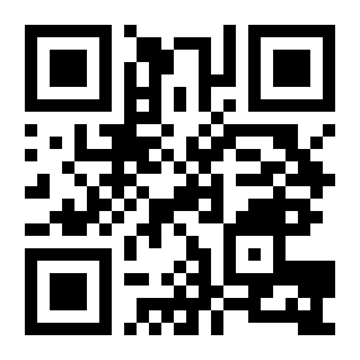
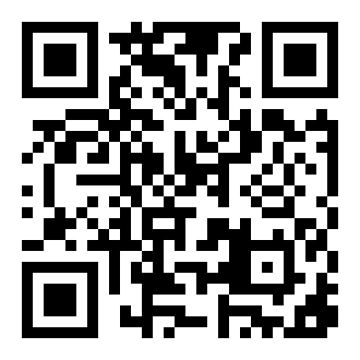
LINEの入口を「てらこ先生｜スマホ教室てらこ」（@381・lin.ee/WACibGu）に一本化：ホームページ・名刺ページ・お問い合わせ・予約アプリの友だち追加リンクと、QR画像 images/line-qr.png

diff --git a/index.html b/index.html
@@ -772,7 +772,7 @@
                         <li role="none"><a href="#about" role="menuitem">代表紹介</a></li>
                         <li role="none"><a href="#faq" role="menuitem">よくある質問</a></li>
                     </ul>
-                    <a href="https://lin.ee/tkYJ7Cw" class="nav-line-btn" target="_blank" rel="noopener" aria-label="LINEで相談する（外部リンク）">LINEで相談</a>
+                    <a href="https://lin.ee/WACibGu" class="nav-line-btn" target="_blank" rel="noopener" aria-label="LINEで相談する（外部リンク）">LINEで相談</a>
                 </div>
                 <button
                     class="mobile-menu-toggle"
@@ -816,7 +816,7 @@
                     </a>
                     <div class="hero2-actions">
                         <a href="#services" class="btn-forest btn-green">教室のご案内を見る</a>
-                        <a href="https://lin.ee/tkYJ7Cw" class="btn-line-solid btn-line" target="_blank" rel="noopener" aria-label="LINEで気軽に相談する（外部リンク）">LINEで気軽に相談</a>
+                        <a href="https://lin.ee/WACibGu" class="btn-line-solid btn-line" target="_blank" rel="noopener" aria-label="LINEで気軽に相談する（外部リンク）">LINEで気軽に相談</a>
                     </div>
                 </div>
             </div>
@@ -1117,7 +1117,7 @@
                         <span>電話 <a href="tel:090-6738-1469">090-6738-1469</a>｜メール <a href="mailto:fujisaki@teraco-labo.com">fujisaki@teraco-labo.com</a></span>
                     </div>
                     <div class="access-actions">
-                        <a href="https://lin.ee/tkYJ7Cw" class="btn-line-footer" target="_blank" rel="noopener" aria-label="LINEで相談する（外部リンク）">LINEで相談する</a>
+                        <a href="https://lin.ee/WACibGu" class="btn-line-footer" target="_blank" rel="noopener" aria-label="LINEで相談する（外部リンク）">LINEで相談する</a>
                         <a href="contact.html" class="btn-outline-footer">お問い合わせフォーム</a>
                     </div>
                 </div>
@@ -1146,7 +1146,7 @@
         <a href="tel:090-6738-1469" class="sticky-btn sticky-btn-phone" aria-label="電話で問い合わせ：090-6738-1469">
             電話する
         </a>
-        <a href="https://lin.ee/tkYJ7Cw" class="sticky-btn sticky-btn-line" target="_blank" rel="noopener" aria-label="LINEで相談する（外部リンク）">
+        <a href="https://lin.ee/WACibGu" class="sticky-btn sticky-btn-line" target="_blank" rel="noopener" aria-label="LINEで相談する（外部リンク）">
             LINEで相談
         </a>
     </div>
@@ -1241,7 +1241,7 @@
         <p>こんなことで困っていませんか。教室で、何度でも一緒に練習します。</p>
         <ul><li>文字が小さくて読みにくい・打つのが大変</li><li>LINE で写真を送りたい・友だちを追加したい</li><li>機種変更で、写真や電話帳を移したい</li><li>キャッシュレス決済を使ってみたい</li><li>迷惑メールや詐欺のメッセージが心配</li></ul>
         
-        <div class="tc-go"><a class="btn-forest" href="smartphone.html">スマホ・タブレット教室を見る</a><a class="btn-line-solid" href="https://lin.ee/tkYJ7Cw" target="_blank" rel="noopener">LINEで相談</a></div>
+        <div class="tc-go"><a class="btn-forest" href="smartphone.html">スマホ・タブレット教室を見る</a><a class="btn-line-solid" href="https://lin.ee/WACibGu" target="_blank" rel="noopener">LINEで相談</a></div>
     </div></dialog>
     <dialog id="sheet-pc" class="tc-sheet" aria-labelledby="sheet-pc-t"><div class="tc-sheet-in">
         <button type="button" class="tc-close" aria-label="閉じる">×</button>
@@ -1249,7 +1249,7 @@
         <p>こんなことで困っていませんか。教室や個人レッスンで、一緒に操作しながら覚えます。</p>
         <ul><li>文字を打つのに時間がかかる</li><li>書類（文書・表）を作りたい</li><li>ファイルをどこに保存したか分からなくなる</li><li>印刷・スキャンがうまくいかない</li><li>急に英字しか打てなくなった</li></ul>
         
-        <div class="tc-go"><a class="btn-forest" href="ai.html">パソコンAI教室を見る</a><a class="btn-line-solid" href="https://lin.ee/tkYJ7Cw" target="_blank" rel="noopener">LINEで相談</a></div>
+        <div class="tc-go"><a class="btn-forest" href="ai.html">パソコンAI教室を見る</a><a class="btn-line-solid" href="https://lin.ee/WACibGu" target="_blank" rel="noopener">LINEで相談</a></div>
     </div></dialog>
     <dialog id="sheet-ai" class="tc-sheet" aria-labelledby="sheet-ai-t"><div class="tc-sheet-in">
         <button type="button" class="tc-close" aria-label="閉じる">×</button>
@@ -1257,7 +1257,7 @@
         <p>こんなことで困っていませんか。むずかしい言葉を使わずに、一緒に使ってみます。</p>
         <ul><li>AI で何ができるのか分からない</li><li>上手な頼み方を知りたい</li><li>調べもの・文章づくりに使いたい</li><li>仕事や趣味に活かしたい</li><li>安全な使い方・注意点を知りたい</li></ul>
         
-        <div class="tc-go"><a class="btn-forest" href="ai.html">パソコンAI教室を見る</a><a class="btn-line-solid" href="https://lin.ee/tkYJ7Cw" target="_blank" rel="noopener">LINEで相談</a></div>
+        <div class="tc-go"><a class="btn-forest" href="ai.html">パソコンAI教室を見る</a><a class="btn-line-solid" href="https://lin.ee/WACibGu" target="_blank" rel="noopener">LINEで相談</a></div>
     </div></dialog>
     <dialog id="sheet-video" class="tc-sheet" aria-labelledby="sheet-video-t"><div class="tc-sheet-in">
         <button type="button" class="tc-close" aria-label="閉じる">×</button>
@@ -1265,7 +1265,7 @@
         <p>新しく始めたサービスです。スマホやパソコンで、動画の作り方を一緒に覚えます。</p>
         <ul><li>家族や趣味の動画を、自分でまとめたい</li><li>お店や仕事の紹介動画を作りたい</li><li>動画編集を仕事にして、副業で収入を得たい（このご相談も好評です）</li></ul>
         <p class="tc-note">動画編集のくわしいご案内は、LINE でお気軽にどうぞ。</p>
-        <div class="tc-go"><a class="btn-forest" href="lesson.html">個人レッスンを見る</a><a class="btn-line-solid" href="https://lin.ee/tkYJ7Cw" target="_blank" rel="noopener">LINEで相談</a></div>
+        <div class="tc-go"><a class="btn-forest" href="lesson.html">個人レッスンを見る</a><a class="btn-line-solid" href="https://lin.ee/WACibGu" target="_blank" rel="noopener">LINEで相談</a></div>
     </div></dialog>
 
 <script>

diff --git a/lesson.html b/lesson.html
@@ -164,7 +164,7 @@
                         <li role="none"><a href="index.html#about" role="menuitem">代表紹介</a></li>
                         <li role="none"><a href="index.html#faq" role="menuitem">よくある質問</a></li>
                     </ul>
-                    <a href="https://lin.ee/tkYJ7Cw" class="nav-line-btn" target="_blank" rel="noopener" aria-label="LINEで相談する（外部リンク）">LINEで相談</a>
+                    <a href="https://lin.ee/WACibGu" class="nav-line-btn" target="_blank" rel="noopener" aria-label="LINEで相談する（外部リンク）">LINEで相談</a>
                 </div>
                 <button
                     class="mobile-menu-toggle"
@@ -445,7 +445,7 @@
                     <div class="contact-actions2">
                         <a href="contact.html?service=lesson" class="btn-forest">メールで予約・相談</a>
                         <a href="tel:090-6738-1469" class="btn-outline-forest">電話する</a>
-                        <a href="https://lin.ee/tkYJ7Cw" target="_blank" rel="noopener" class="btn-line-solid">LINEで相談</a>
+                        <a href="https://lin.ee/WACibGu" target="_blank" rel="noopener" class="btn-line-solid">LINEで相談</a>
                     </div>
                     <div class="contact-qr-small">
                         <img src="images/line-qr.png" alt="LINE友達追加QRコード">
@@ -476,7 +476,7 @@
                         <span>電話 <a href="tel:090-6738-1469">090-6738-1469</a>｜メール <a href="mailto:fujisaki@teraco-labo.com">fujisaki@teraco-labo.com</a></span>
                     </div>
                     <div class="access-actions">
-                        <a href="https://lin.ee/tkYJ7Cw" class="btn-line-footer" target="_blank" rel="noopener" aria-label="LINEで相談する（外部リンク）">LINEで相談する</a>
+                        <a href="https://lin.ee/WACibGu" class="btn-line-footer" target="_blank" rel="noopener" aria-label="LINEで相談する（外部リンク）">LINEで相談する</a>
                         <a href="contact.html" class="btn-outline-footer">お問い合わせフォーム</a>
                     </div>
                 </div>
@@ -497,7 +497,7 @@
         <a href="tel:090-6738-1469" class="sticky-btn sticky-btn-phone" aria-label="電話で問い合わせ：090-6738-1469">
             電話する
         </a>
-        <a href="https://lin.ee/tkYJ7Cw" class="sticky-btn sticky-btn-line" target="_blank" rel="noopener" aria-label="LINEで相談する（外部リンク）">
+        <a href="https://lin.ee/WACibGu" class="sticky-btn sticky-btn-line" target="_blank" rel="noopener" aria-label="LINEで相談する（外部リンク）">
             LINEで相談
         </a>
     </div>
@@ -575,7 +575,7 @@
         <p>代わりにやって終わりではなく、帰ってからも自分で使えるところまで一緒にやるのが TERACO のレッスンです。</p>
         <p><strong>料金：50分 8,000円（税込）。続けて習う方には、回数券と教室の会員の料金もあります。</strong></p>
         <p class="tc-note">※ 機種やスマホの状態によっては、移せないデータもあります。LINE などの引き継ぎに必要なもの（パスワードなど）は、ご予約のときにお伝えします。</p>
-        <div class="tc-go"><a class="btn-forest" href="contact.html?service=lesson">相談・予約する</a><a class="btn-line-solid" href="https://lin.ee/tkYJ7Cw" target="_blank" rel="noopener">LINEで相談</a></div>
+        <div class="tc-go"><a class="btn-forest" href="contact.html?service=lesson">相談・予約する</a><a class="btn-line-solid" href="https://lin.ee/WACibGu" target="_blank" rel="noopener">LINEで相談</a></div>
     </div></dialog>
 
 <script>

diff --git a/smartphone.html b/smartphone.html
@@ -53,7 +53,7 @@
                         <li role="none"><a href="index.html#about" role="menuitem">代表紹介</a></li>
                         <li role="none"><a href="index.html#faq" role="menuitem">よくある質問</a></li>
                     </ul>
-                    <a href="https://lin.ee/tkYJ7Cw" class="nav-line-btn" target="_blank" rel="noopener" aria-label="LINEで相談する（外部リンク）">LINEで相談</a>
+                    <a href="https://lin.ee/WACibGu" class="nav-line-btn" target="_blank" rel="noopener" aria-label="LINEで相談する（外部リンク）">LINEで相談</a>
                 </div>
                 <button
                     class="mobile-menu-toggle"
@@ -215,7 +215,7 @@
                     <div class="contact-actions2">
                         <a href="contact.html?service=smartphone" class="btn-forest">メールでお問い合わせ</a>
                         <a href="tel:090-6738-1469" class="btn-outline-forest">電話する</a>
-                        <a href="https://lin.ee/tkYJ7Cw" target="_blank" rel="noopener" class="btn-line-solid">LINEで相談</a>
+                        <a href="https://lin.ee/WACibGu" target="_blank" rel="noopener" class="btn-line-solid">LINEで相談</a>
                     </div>
                     <div class="contact-qr-small">
                         <img src="images/line-qr.png" alt="LINE友達追加QRコード">
@@ -245,7 +245,7 @@
                         <span>電話 <a href="tel:090-6738-1469">090-6738-1469</a>｜メール <a href="mailto:fujisaki@teraco-labo.com">fujisaki@teraco-labo.com</a></span>
                     </div>
                     <div class="access-actions">
-                        <a href="https://lin.ee/tkYJ7Cw" class="btn-line-footer" target="_blank" rel="noopener" aria-label="LINEで相談する（外部リンク）">LINEで相談する</a>
+                        <a href="https://lin.ee/WACibGu" class="btn-line-footer" target="_blank" rel="noopener" aria-label="LINEで相談する（外部リンク）">LINEで相談する</a>
                         <a href="contact.html" class="btn-outline-footer">お問い合わせフォーム</a>
                     </div>
                 </div>
@@ -266,7 +266,7 @@
         <a href="tel:090-6738-1469" class="sticky-btn sticky-btn-phone" aria-label="電話で問い合わせ：090-6738-1469">
             電話する
         </a>
-        <a href="https://lin.ee/tkYJ7Cw" class="sticky-btn sticky-btn-line" target="_blank" rel="noopener" aria-label="LINEで相談する（外部リンク）">
+        <a href="https://lin.ee/WACibGu" class="sticky-btn sticky-btn-line" target="_blank" rel="noopener" aria-label="LINEで相談する（外部リンク）">
             LINEで相談
         </a>
     </div>

diff --git a/rental.html b/rental.html
@@ -72,7 +72,7 @@
                         <li role="none"><a href="index.html#about" role="menuitem">代表紹介</a></li>
                         <li role="none"><a href="index.html#faq" role="menuitem">よくある質問</a></li>
                     </ul>
-                    <a href="https://lin.ee/tkYJ7Cw" class="nav-line-btn" target="_blank" rel="noopener" aria-label="LINEで相談する（外部リンク）">LINEで相談</a>
+                    <a href="https://lin.ee/WACibGu" class="nav-line-btn" target="_blank" rel="noopener" aria-label="LINEで相談する（外部リンク）">LINEで相談</a>
                 </div>
                 <button
                     class="mobile-menu-toggle"
@@ -211,7 +211,7 @@
                     <div class="contact-actions2">
                         <a href="contact.html?service=rental" class="btn-forest">メールで予約・お問い合わせ</a>
                         <a href="tel:090-6738-1469" class="btn-outline-forest">電話する</a>
-                        <a href="https://lin.ee/tkYJ7Cw" target="_blank" rel="noopener" class="btn-line-solid">LINEで相談</a>
+                        <a href="https://lin.ee/WACibGu" target="_blank" rel="noopener" class="btn-line-solid">LINEで相談</a>
                     </div>
                     <div class="contact-info2">
                         fujisaki@teraco-labo.com｜090-6738-1469<br>
@@ -236,7 +236,7 @@
                         <span>電話 <a href="tel:090-6738-1469">090-6738-1469</a>｜メール <a href="mailto:fujisaki@teraco-labo.com">fujisaki@teraco-labo.com</a></span>
                     </div>
                     <div class="access-actions">
-                        <a href="https://lin.ee/tkYJ7Cw" class="btn-line-footer" target="_blank" rel="noopener" aria-label="LINEで相談する（外部リンク）">LINEで相談する</a>
+                        <a href="https://lin.ee/WACibGu" class="btn-line-footer" target="_blank" rel="noopener" aria-label="LINEで相談する（外部リンク）">LINEで相談する</a>
                         <a href="contact.html" class="btn-outline-footer">お問い合わせフォーム</a>
                     </div>
                 </div>
@@ -257,7 +257,7 @@
         <a href="tel:090-6738-1469" class="sticky-btn sticky-btn-phone" aria-label="電話で問い合わせ：090-6738-1469">
             電話する
         </a>
-        <a href="https://lin.ee/tkYJ7Cw" class="sticky-btn sticky-btn-line" target="_blank" rel="noopener" aria-label="LINEで相談する（外部リンク）">
+        <a href="https://lin.ee/WACibGu" class="sticky-btn sticky-btn-line" target="_blank" rel="noopener" aria-label="LINEで相談する（外部リンク）">
             LINEで相談
         </a>
     </div>

diff --git a/contact.html b/contact.html
@@ -55,7 +55,7 @@
                         <li role="none"><a href="index.html#about" role="menuitem">代表紹介</a></li>
                         <li role="none"><a href="index.html#faq" role="menuitem">よくある質問</a></li>
                     </ul>
-                    <a href="https://lin.ee/tkYJ7Cw" class="nav-line-btn" target="_blank" rel="noopener" aria-label="LINEで相談する（外部リンク）">LINEで相談</a>
+                    <a href="https://lin.ee/WACibGu" class="nav-line-btn" target="_blank" rel="noopener" aria-label="LINEで相談する（外部リンク）">LINEで相談</a>
                 </div>
                 <button
                     class="mobile-menu-toggle"
@@ -408,7 +408,7 @@
                         <span>電話 <a href="tel:090-6738-1469">090-6738-1469</a>｜メール <a href="mailto:fujisaki@teraco-labo.com">fujisaki@teraco-labo.com</a></span>
                     </div>
                     <div class="access-actions">
-                        <a href="https://lin.ee/tkYJ7Cw" class="btn-line-footer" target="_blank" rel="noopener" aria-label="LINEで相談する（外部リンク）">LINEで相談する</a>
+                        <a href="https://lin.ee/WACibGu" class="btn-line-footer" target="_blank" rel="noopener" aria-label="LINEで相談する（外部リンク）">LINEで相談する</a>
                         <a href="contact.html" class="btn-outline-footer">お問い合わせフォーム</a>
                     </div>
                 </div>
@@ -429,7 +429,7 @@
         <a href="tel:090-6738-1469" class="sticky-btn sticky-btn-phone" aria-label="電話で問い合わせ：090-6738-1469">
             電話する
         </a>
-        <a href="https://lin.ee/tkYJ7Cw" class="sticky-btn sticky-btn-line" target="_blank" rel="noopener" aria-label="LINEで相談する（外部リンク）">
+        <a href="https://lin.ee/WACibGu" class="sticky-btn sticky-btn-line" target="_blank" rel="noopener" aria-label="LINEで相談する（外部リンク）">
             LINEで相談
         </a>
     </div>

diff --git a/sensei/index.html b/sensei/index.html
@@ -312,7 +312,7 @@
       <svg class="second-ic" viewBox="0 0 24 24" aria-hidden="true"><path d="M23.498 6.186a3.016 3.016 0 0 0-2.122-2.136C19.505 3.545 12 3.545 12 3.545s-7.505 0-9.377.505A3.017 3.017 0 0 0 .502 6.186C0 8.07 0 12 0 12s0 3.93.502 5.814a3.016 3.016 0 0 0 2.122 2.136c1.871.505 9.376.505 9.376.505s7.505 0 9.377-.505a3.015 3.015 0 0 0 2.122-2.136C24 15.93 24 12 24 12s0-3.93-.502-5.814zM9.545 15.568V8.432L15.818 12l-6.273 3.568z"/></svg>
       <span class="second-txt"><span class="second-title">YouTube</span><span class="second-desc">スマホ・パソコン・AIのコツを動画で</span></span>
     </a>
-    <a class="second second--plain second--pl-line" href="https://lin.ee/tkYJ7Cw" target="_blank" rel="noopener">
+    <a class="second second--plain second--pl-line" href="https://lin.ee/WACibGu" target="_blank" rel="noopener">
       <svg class="second-ic" viewBox="0 0 24 24" aria-hidden="true"><path d="M12 2.4c-5.52 0-10 3.62-10 8.07 0 3.99 3.55 7.33 8.35 7.96.32.07.77.21.88.49.1.25.07.64.03.89l-.14.84c-.04.25-.2.97.86.53s5.7-3.35 7.77-5.74C21.13 13.87 22 12.32 22 10.47c0-4.45-4.48-8.07-10-8.07z"/></svg>
       <span class="second-txt"><span class="second-title">教室のLINE</span><span class="second-desc">ご予約・お知らせはメニューから</span></span>
     </a>

diff --git a/teraco-labo-website/instructor.html b/teraco-labo-website/instructor.html
@@ -460,7 +460,7 @@
                     <div class="contact-actions">
                         <a href="contact.html?service=instructor" class="contact-btn">✉ メールでお問い合わせ</a>
                         <a href="tel:090-6738-1469" class="contact-btn">📞 電話する</a>
-                        <a href="https://lin.ee/tkYJ7Cw" target="_blank" class="contact-btn">💬 LINEで相談</a>
+                        <a href="https://lin.ee/WACibGu" target="_blank" class="contact-btn">💬 LINEで相談</a>
                     </div>
                     <div class="line-qr-small">
                         <div style="width: 110px; height: 110px; margin: 0.5rem auto 0; border: 2px solid #ddd; border-radius: 8px; background: #fff; overflow: hidden;">

diff --git a/teraco-labo-website/smartphone.html b/teraco-labo-website/smartphone.html
@@ -643,7 +643,7 @@
                     <div class="contact-actions">
                         <a href="contact.html?service=smartphone" class="contact-btn">✉ メールでお問い合わせ</a>
                         <a href="tel:090-6738-1469" class="contact-btn">📞 電話する</a>
-                        <a href="https://lin.ee/tkYJ7Cw" target="_blank" class="contact-btn">💬 LINEで相談</a>
+                        <a href="https://lin.ee/WACibGu" target="_blank" class="contact-btn">💬 LINEで相談</a>
                     </div>
                     <div class="line-qr-small">
                         <div style="width: 110px; height: 110px; margin: 0.5rem auto 0; border: 2px solid #ddd; border-radius: 8px; background: #fff; overflow: hidden;">

diff --git a/teraco-labo-website/video.html b/teraco-labo-website/video.html
@@ -448,7 +448,7 @@
                     <div class="contact-actions">
                         <a href="contact.html?service=video" class="contact-btn">✉ メールでお問い合わせ</a>
                         <a href="tel:090-6738-1469" class="contact-btn">📞 電話する</a>
-                        <a href="https://lin.ee/tkYJ7Cw" target="_blank" class="contact-btn">💬 LINEで相談</a>
+                        <a href="https://lin.ee/WACibGu" target="_blank" class="contact-btn">💬 LINEで相談</a>
                     </div>
                     <div class="line-qr-small">
                         <div style="width: 110px; height: 110px; margin: 0.5rem auto 0; border: 2px solid #ddd; border-radius: 8px; background: #fff; overflow: hidden;">

diff --git a/teraco-labo-website/ai.html b/teraco-labo-website/ai.html
@@ -520,7 +520,7 @@
                     <div class="contact-actions">
                         <a href="contact.html?service=ai" class="contact-btn">✉ メールでお問い合わせ</a>
                         <a href="tel:090-6738-1469" class="contact-btn">📞 電話する</a>
-                        <a href="https://lin.ee/tkYJ7Cw" target="_blank" class="contact-btn">💬 LINEで相談</a>
+                        <a href="https://lin.ee/WACibGu" target="_blank" class="contact-btn">💬 LINEで相談</a>
                     </div>
                     <div class="line-qr-small">
                         <div style="width: 110px; height: 110px; margin: 0.5rem auto 0; border: 2px solid #ddd; border-radius: 8px; background: #fff; overflow: hidden;">

diff --git a/pwa-reserve/line-config.js b/pwa-reserve/line-config.js
@@ -1,3 +1,3 @@
 /* LINE連携の設定（公開してよい値だけ。トークンは書かない）
    liffId: LINE Developers の LIFF アプリの ID。空ならLINE連携は動かない（予約は普通に使える） */
-window.TERACO_LINE = { liffId: ''   /* 2026-09-25 停止（LINEの控えは不要）。再開するときは '2011702023-wnVssFsn' を入れる */, addFriendUrl: 'https://lin.ee/tkYJ7Cw', accountName: 'スマホ教室TERACO' };
+window.TERACO_LINE = { liffId: ''   /* 2026-09-25 停止（LINEの控えは不要）。再開するときは '2011702023-wnVssFsn' を入れる */, addFriendUrl: 'https://lin.ee/WACibGu', accountName: 'てらこ先生｜スマホ教室てらこ' };

diff --git a/teraco-labo-website/rental.html b/teraco-labo-website/rental.html
@@ -513,7 +513,7 @@
                     <div class="contact-actions">
                         <a href="contact.html?service=rental" class="contact-btn">✉ メールで予約・お問い合わせ</a>
                         <a href="tel:090-6738-1469" class="contact-btn">📞 電話する</a>
-                        <a href="https://lin.ee/tkYJ7Cw" target="_blank" class="contact-btn">💬 LINEで相談</a>
+                        <a href="https://lin.ee/WACibGu" target="_blank" class="contact-btn">💬 LINEで相談</a>
                     </div>
                     
                     <div style="margin-top: 2rem; font-size: 0.9rem; color: #666;">
